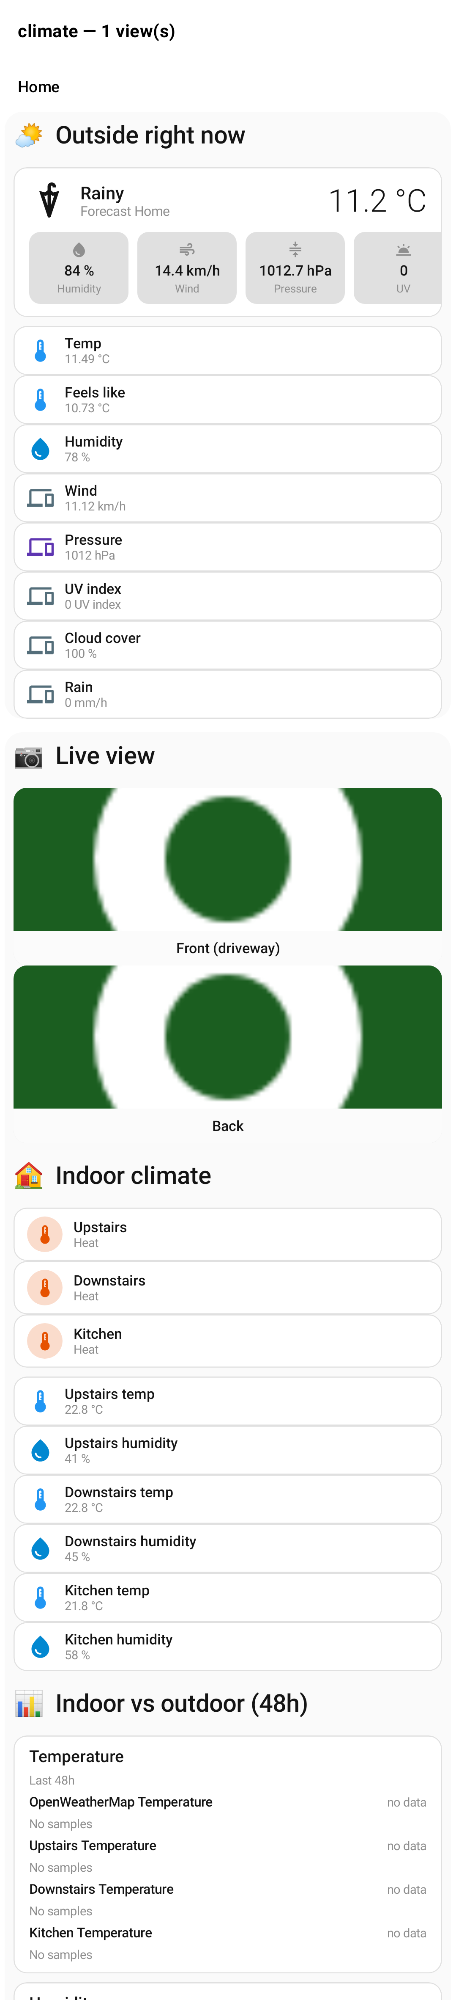
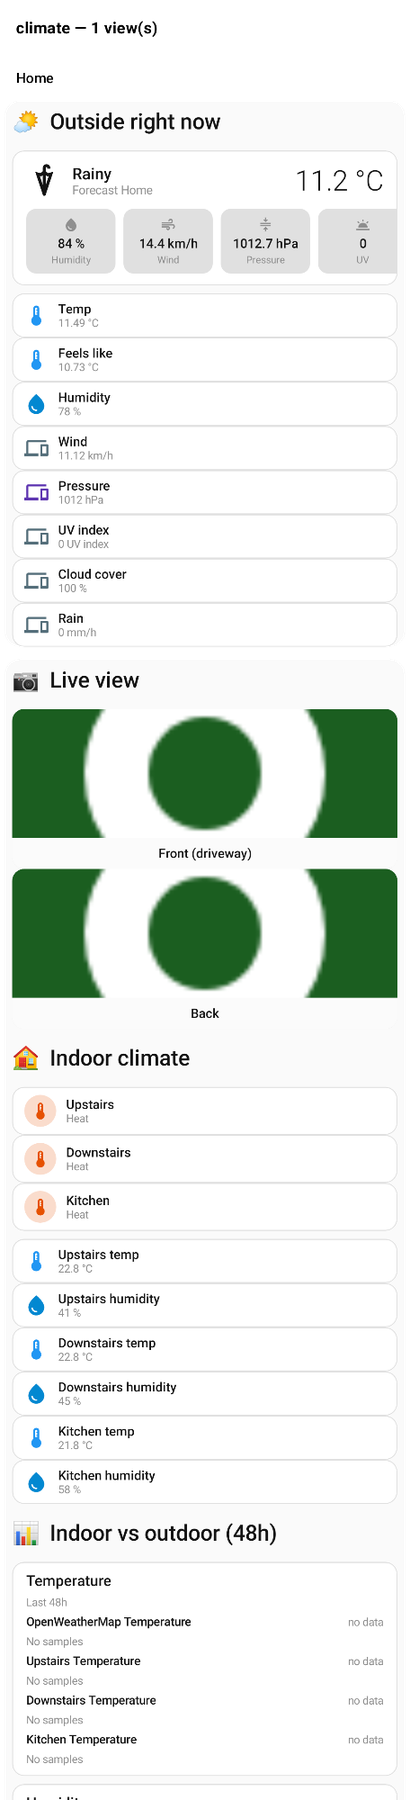
fix: seed is_on from the same helper in area and picture cards
Area, picture-glance and picture-elements cards seeded <id>.is_on with
their own on || open check, which now disagreed with the pushed value for
locks, heating climate entities, playing media players and moving
covers. They call HaLiveBindings.isOn, whose fallback for unmodelled
domains is on || open so valves stay active. Updates the live-binding
contract doc and downscales the evidence renders to 1800px.

Claude-Session: https://claude.ai/code/session_016gs1AhPyfyG2Rjcsfste3i

diff --git a/ha-model/src/commonMain/kotlin/ee/schimke/ha/model/HaLiveBindings.kt b/ha-model/src/commonMain/kotlin/ee/schimke/ha/model/HaLiveBindings.kt
@@ -25,11 +25,12 @@ object HaLiveBindings {
    * Whether the entity is in its active / on-like state ↔ `<entityId>.is_on`. Converters bake the
    * initial accent from [HaEntity.isActive], so the pushed value must come from the same place: a
    * heating thermostat, an open cover, a locked lock or a playing media player is active even
-   * though its state isn't literally `"on"`. Domains without an active concept fall back to `state
-   * == "on"`.
+   * though its state isn't literally `"on"`. Domains without a modelled active concept (valves,
+   * scenes, …) fall back to `"on"` or `"open"`. Converters seed `<id>.is_on` from this same
+   * function, so the first push never changes an accent the document already shows.
    */
   fun isOn(entityId: String, state: String): Boolean =
-    EntityState(entityId, state).toTyped().isActive ?: (state == "on")
+    EntityState(entityId, state).toTyped().isActive ?: (state == "on" || state == "open")
 
   /**
    * Parsed numeric form of an entity's primary state ↔ `<entityId>.numeric_state`. Gauges / arcs

diff --git a/rc-converter/src/main/kotlin/ee/schimke/ha/rc/cards/PictureElementsCardConverter.kt b/rc-converter/src/main/kotlin/ee/schimke/ha/rc/cards/PictureElementsCardConverter.kt
@@ -6,6 +6,7 @@ import androidx.compose.remote.creation.compose.modifier.RemoteModifier
 import androidx.compose.runtime.Composable
 import ee.schimke.ha.model.CardConfig
 import ee.schimke.ha.model.CardTypes
+import ee.schimke.ha.model.HaLiveBindings
 import ee.schimke.ha.model.HaSnapshot
 import ee.schimke.ha.rc.CardConverter
 import ee.schimke.ha.rc.HaStateColor
@@ -67,7 +68,7 @@ private fun mapElement(obj: JsonObject, snapshot: HaSnapshot): HaPictureElement?
         entityId = entityId,
         icon = HaIconMap.resolve(obj["icon"]?.jsonPrimitive?.content, entity),
         accent = HaStateColor.activeFor(entity),
-        initiallyActive = entity?.state == "on" || entity?.state == "open",
+        initiallyActive = entity != null && HaLiveBindings.isOn(entityId, entity.state),
         tapAction = parseTap(obj, entityId),
         position = position,
       )

diff --git a/rc-converter/src/main/kotlin/ee/schimke/ha/rc/cards/PictureGlanceCardConverter.kt b/rc-converter/src/main/kotlin/ee/schimke/ha/rc/cards/PictureGlanceCardConverter.kt
@@ -6,6 +6,7 @@ import androidx.compose.remote.creation.compose.modifier.RemoteModifier
 import androidx.compose.runtime.Composable
 import ee.schimke.ha.model.CardConfig
 import ee.schimke.ha.model.CardTypes
+import ee.schimke.ha.model.HaLiveBindings
 import ee.schimke.ha.model.HaSnapshot
 import ee.schimke.ha.rc.CardConverter
 import ee.schimke.ha.rc.HaStateColor
@@ -42,7 +43,7 @@ class PictureGlanceCardConverter : CardConverter {
     val cells = ids.map { id ->
       val entity = snapshot.states[id]
       val name = entity?.attributes?.get("friendly_name")?.jsonPrimitive?.content ?: id
-      val active = entity?.state == "on" || entity?.state == "open"
+      val active = entity != null && HaLiveBindings.isOn(id, entity.state)
       HaPictureGlanceCell(
         entityId = id,
         icon = HaIconMap.resolve(null, entity),

diff --git a/rc-converter/src/main/kotlin/ee/schimke/ha/rc/cards/AreaCardConverter.kt b/rc-converter/src/main/kotlin/ee/schimke/ha/rc/cards/AreaCardConverter.kt
@@ -12,6 +12,7 @@ import androidx.compose.runtime.Composable
 import androidx.compose.ui.graphics.Color
 import ee.schimke.ha.model.CardConfig
 import ee.schimke.ha.model.CardTypes
+import ee.schimke.ha.model.HaLiveBindings
 import ee.schimke.ha.model.HaSnapshot
 import ee.schimke.ha.rc.CardConverter
 import ee.schimke.ha.rc.components.HaAction
@@ -90,7 +91,7 @@ class AreaCardConverter : CardConverter {
         entityId = id,
         icon = icon,
         accent = accent,
-        initiallyActive = entity.state == "on" || entity.state == "open",
+        initiallyActive = HaLiveBindings.isOn(id, entity.state),
         tapAction = HaAction.Toggle(id),
       )
     }

diff --git a/ha-model/src/commonTest/kotlin/ee/schimke/ha/rc/LiveBindingsMultiplatformTest.kt b/ha-model/src/commonTest/kotlin/ee/schimke/ha/rc/LiveBindingsMultiplatformTest.kt
@@ -25,9 +25,12 @@ class LiveBindingsMultiplatformTest {
         ("media_player.tv" to "paused") to false,
         ("light.kitchen" to "on") to true,
         ("switch.fan" to "off") to false,
-        // No active concept: falls back to the literal "on".
+        ("cover.garage" to "opening") to true,
+        // No modelled active concept: falls back to the literal "on" or "open".
         ("sensor.temp" to "21.5") to false,
         ("scene.night" to "on") to true,
+        ("valve.garden" to "open") to true,
+        ("valve.garden" to "closed") to false,
       )
     cases.forEach { (entity, expected) ->
       val (id, state) = entity

diff --git a/docs/architecture/live-card-updates.md b/docs/architecture/live-card-updates.md
@@ -25,7 +25,7 @@ derived by `HaLiveBindings` / `cardSnapshotBindings` (the host):
 | Binding | Type | Host value |
 | --- | --- | --- |
 | `<id>.state` | string | `formatState(entity)` — the **formatted** display string |
-| `<id>.is_on` | bool | `state == "on"` |
+| `<id>.is_on` | bool | `HaLiveBindings.isOn(id, state)`: the typed `HaEntity.isActive` (climate `heat`/`cool`/…, cover `open`/`opening`/`closing`, lock `locked`, media `playing`, …), else `state == "on"` or `"open"`. Converters seed `LiveValues.isOn` from the same function. |
 | `<id>.numeric_state` | float | parsed numeric state (gauges/arcs derive their sweep in-document) |
 | `<id>.state_int` | int | domain-keyed variant (alarm panel today) |
 

diff --git a/docs/design/evidence/climate-is-on/README.md b/docs/design/evidence/climate-is-on/README.md
@@ -2,6 +2,6 @@
 
 `DashboardClimateMobile`, rendered with `compose-preview render --module previews --filter DashboardClimateMobile` (CLI 2.45.0).
 
-- `dashboard-climate-mobile-before.png`: `main` @ ce5b00b. The three `heat` thermostats render grey: the pushed `is_on` was `state == "on"`, false for `heat`.
+- `dashboard-climate-mobile-before.png` (downscaled to 1800px tall): `main` @ ce5b00b. The three `heat` thermostats render grey: the pushed `is_on` was `state == "on"`, false for `heat`.
 - `dashboard-climate-mobile-after.png`: this branch. They keep the orange active accent the converter bakes.
 - `thermostats-before-after.png`: crop of the only changed region, bbox (27,1216)-(63,1359). No other pixel differs.
